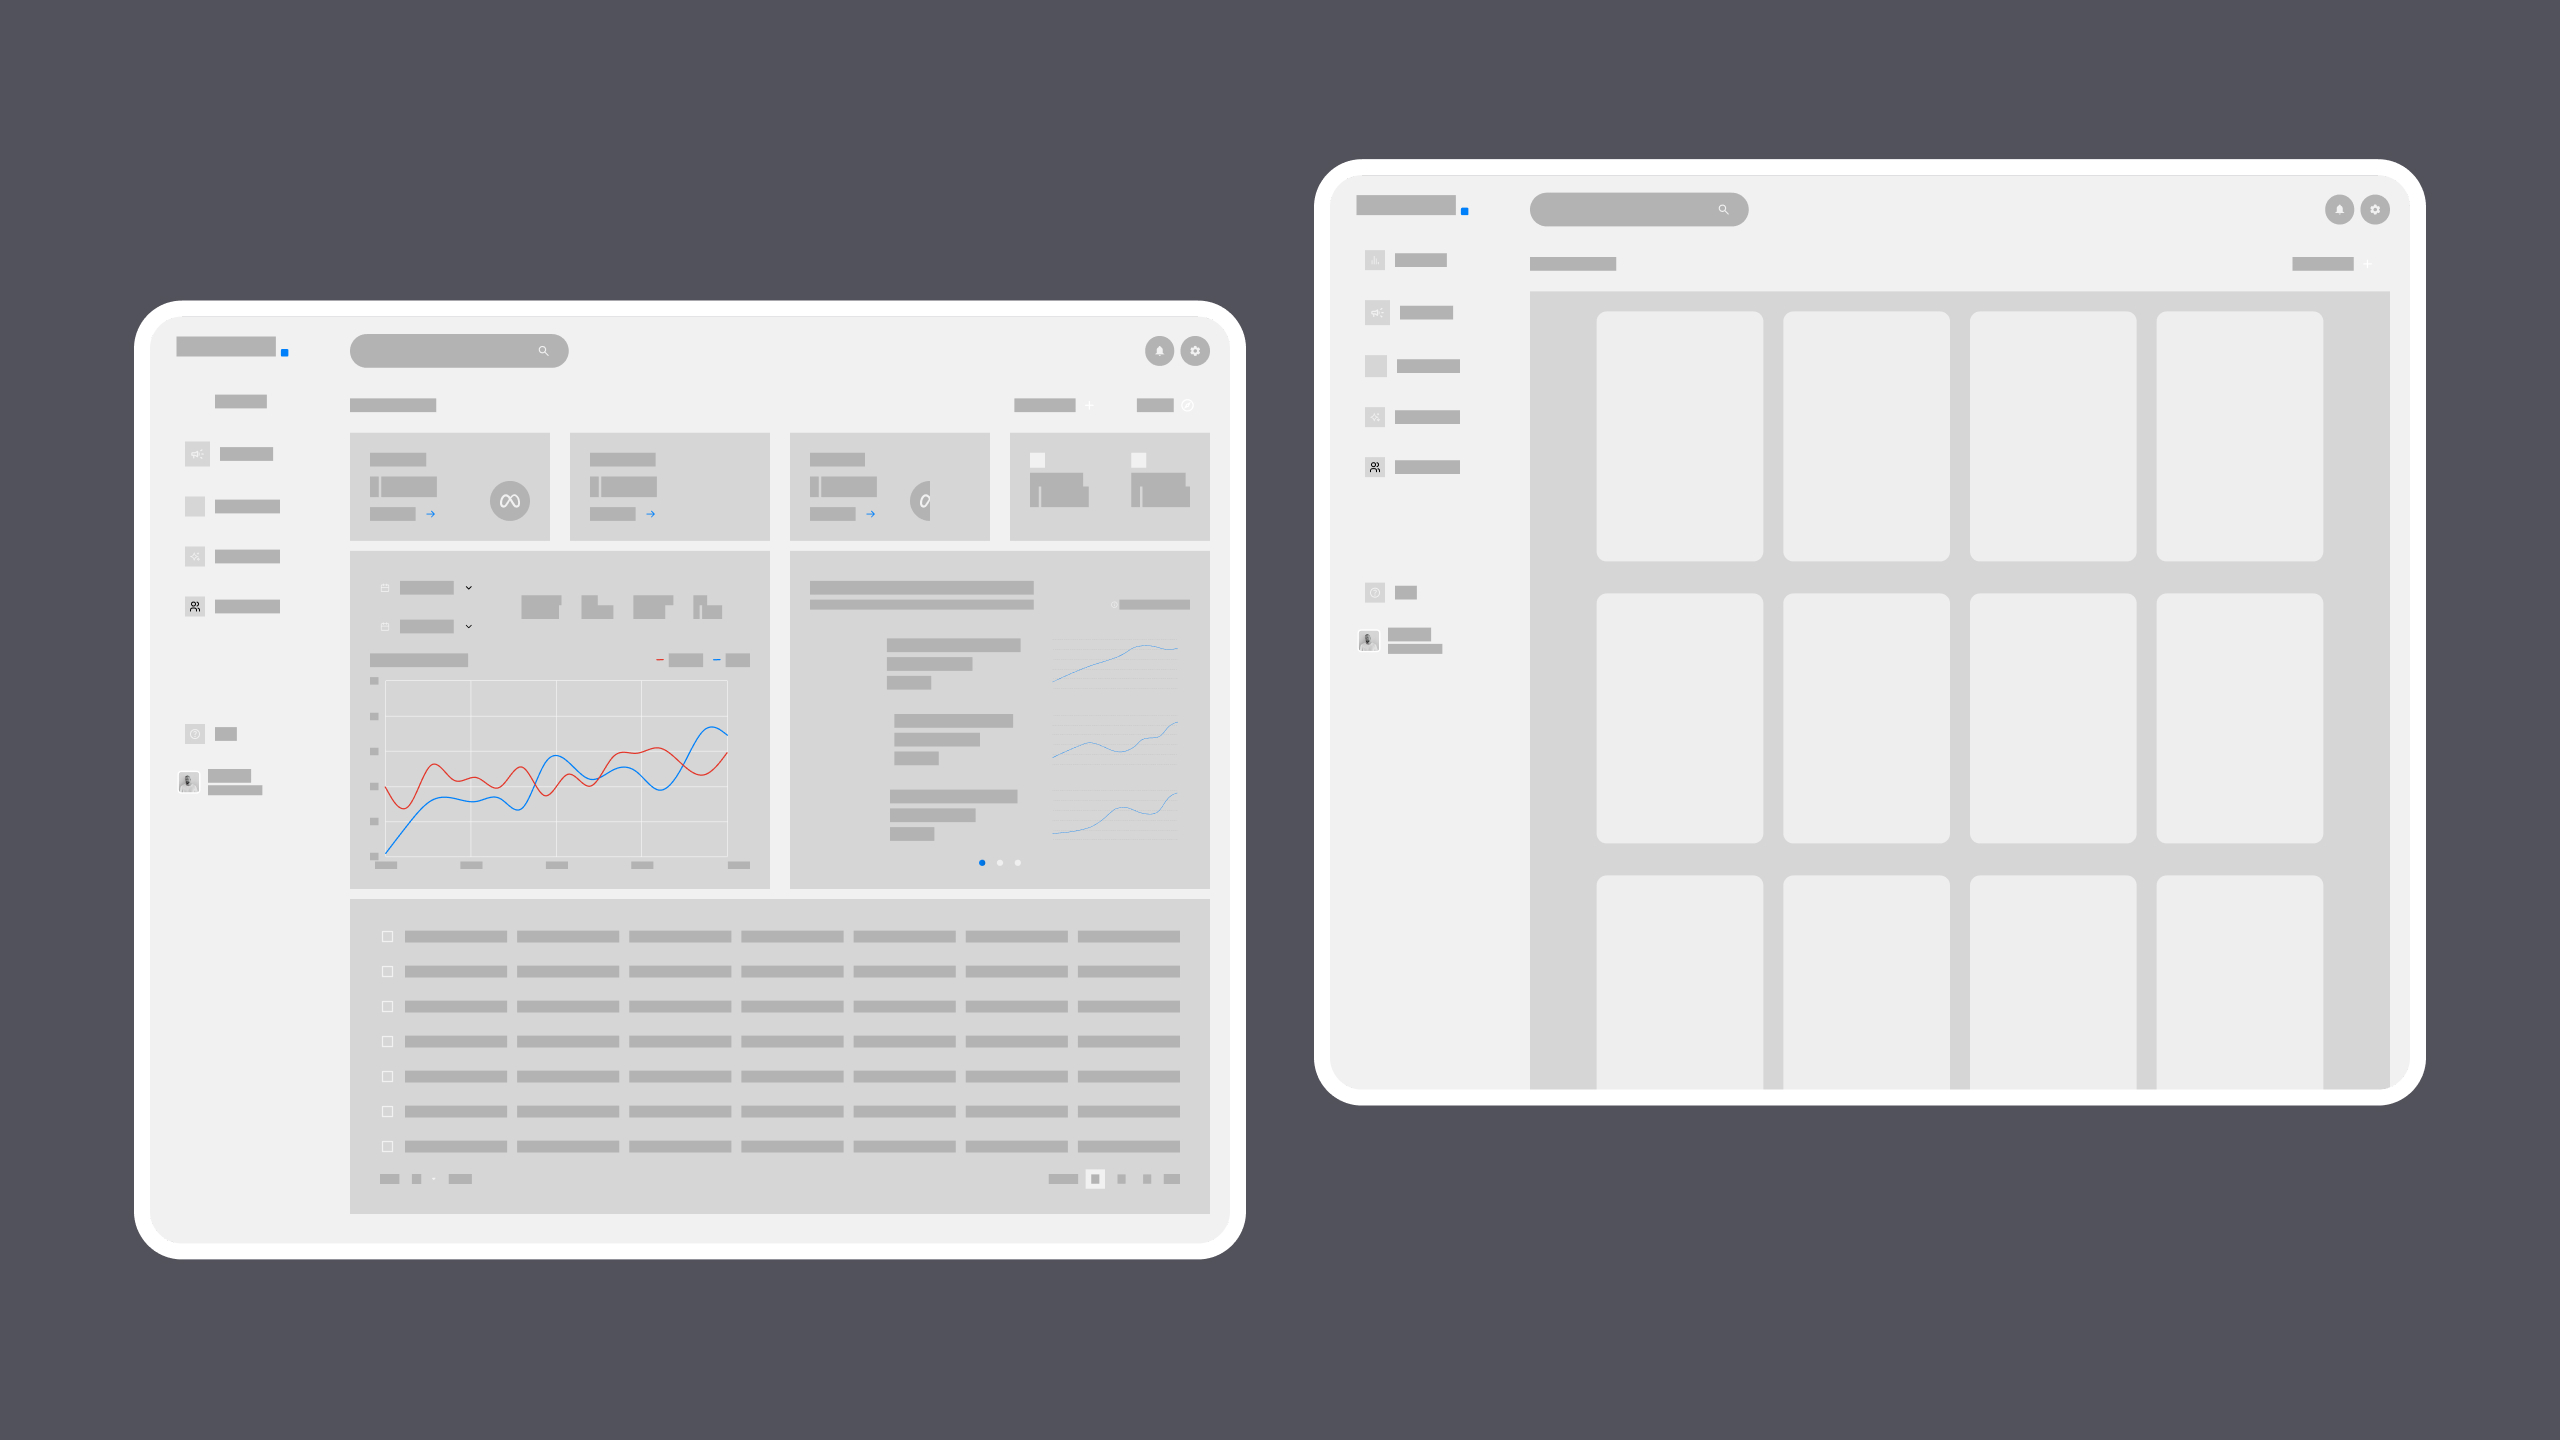
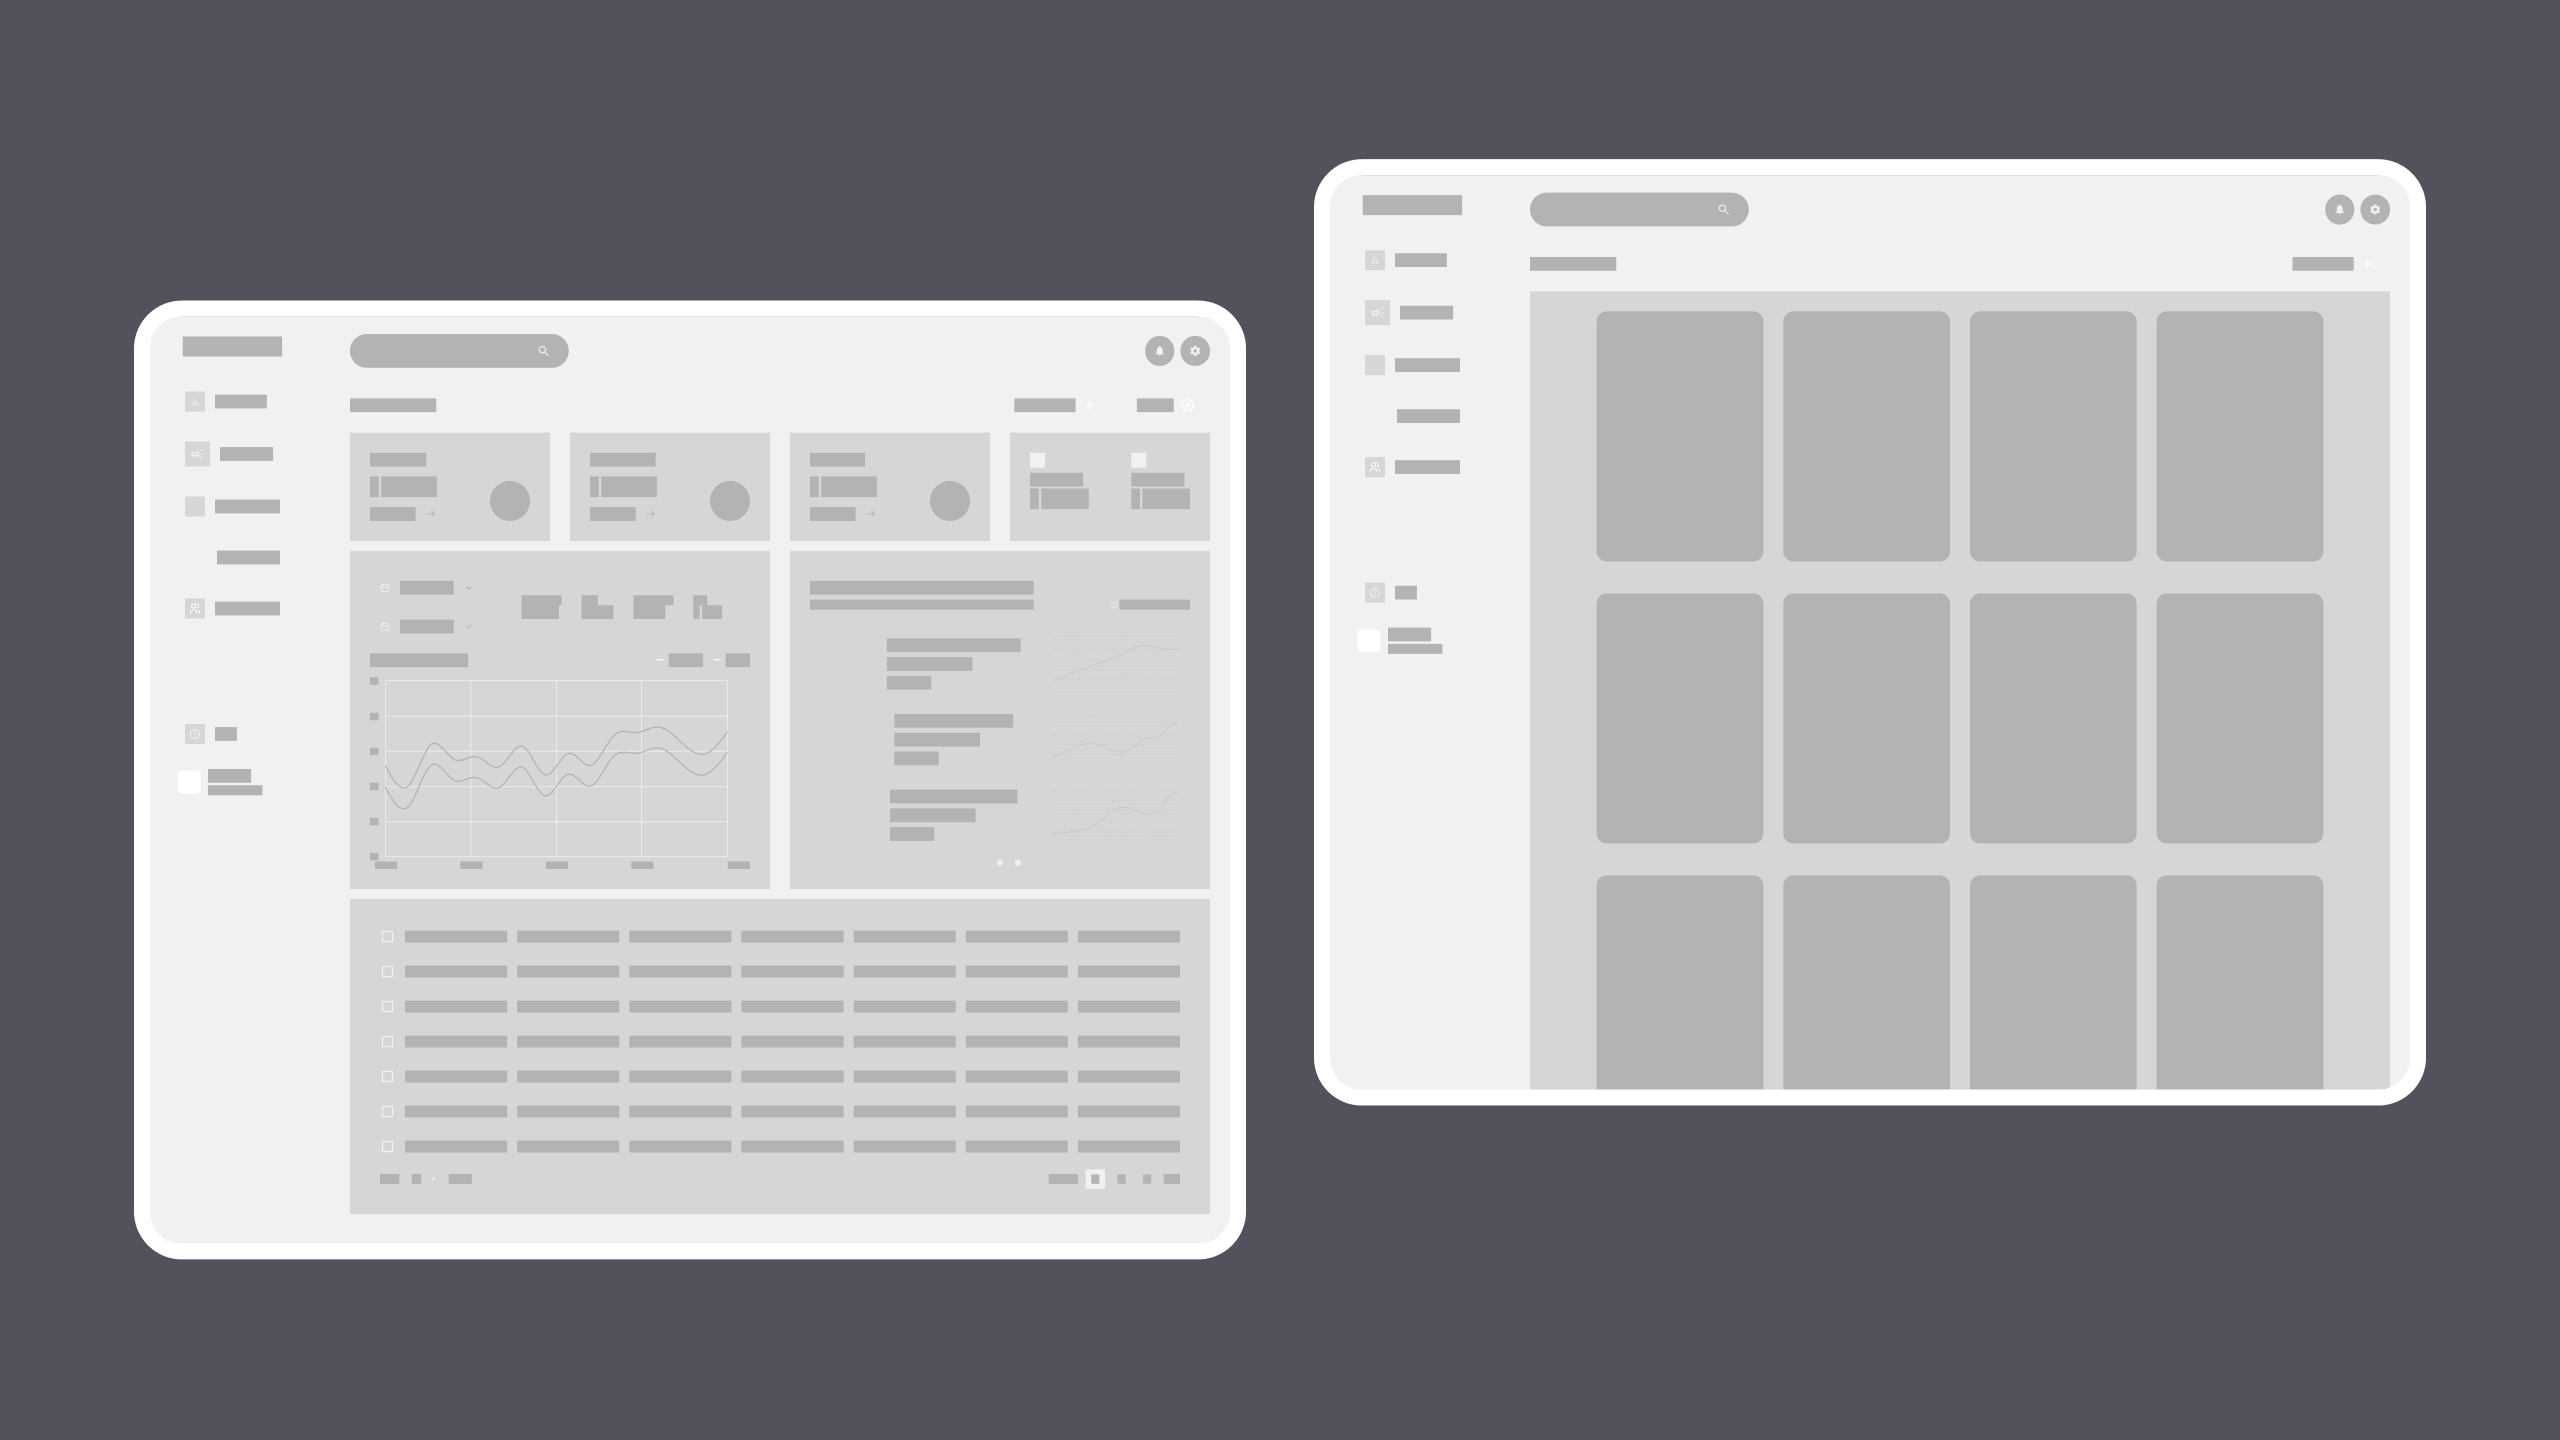
content update

diff --git a/src/components/case-study.tsx b/src/components/case-study.tsx
@@ -2,6 +2,7 @@
 
 import { useLayoutEffect, useRef, useState, useEffect } from "react";
 import Link from "next/link";
+import Image from "next/image";
 import gsap from "gsap";
 import { ScrollTrigger } from "gsap/ScrollTrigger";
 import caseStudies from "@/data/casestudy";
@@ -127,14 +128,16 @@ export default function CaseStudy({ slug }: { slug: string }) {
 
       {/* ── HERO IMAGE ───────────────────────────────────────── */}
       <div className="hero-img-wrap w-full">
-        <div className="relative w-full h-[55vw] max-h-[85vh] min-h-[320px] overflow-hidden">
-          <MagnifiableImage
+        <div className="relative w-full h-[40vw] max-h-[65vh] min-h-[280px] overflow-hidden">
+          <Image
             src={caseStudy.heroImage}
             alt={`${caseStudy.name} Hero`}
             fill
-            preload
+            priority
+            quality={100}
+            unoptimized
             sizes="100vw"
-            className="object-cover scale-[1.04] hover:scale-100 transition-transform duration-[1.4s] ease-in-out"
+            className="object-cover hover:scale-105 transition-transform duration-[1.4s] ease-in-out"
           />
           {/* Subtle bottom gradient */}
           <div className="absolute inset-x-0 bottom-0 h-32 bg-linear-to-t from-[#f8f7f5] dark:from-[#0a0a0a] to-transparent pointer-events-none" />
@@ -362,7 +365,7 @@ export default function CaseStudy({ slug }: { slug: string }) {
                   <p className="text-[9px] font-bold uppercase tracking-widest text-zinc-500 dark:text-zinc-400 mb-6 relative">
                     What I&apos;d do differently
                   </p>
-                  <p className="text-lg md:text-xl font-black tracking-tight leading-snug italic text-white dark:text-zinc-900 relative">
+                  <p className="text-md md:text-lg font-medium tracking-tight leading-snug italic text-white dark:text-zinc-900 relative">
                     &ldquo;{caseStudy.reflection}&rdquo;
                   </p>
                 </div>

diff --git a/src/data/casestudy.js b/src/data/casestudy.js
@@ -6,7 +6,7 @@ const caseStudies = [
     "name": "Invoice",
     "client": "Jadbery",
     "clientLink": "https://jadbery.com/",
-    "year": "2026",
+    "year": "2025",
     "role": "UX Designer & Developer",
     "duration": "3 weeks",
     "timeline": "2025",
@@ -132,7 +132,7 @@ const caseStudies = [
     "hook": "Small businesses and solo marketers spend hours moving between design tools, copywriting tools, and ad platforms to produce a single ad — then do it again for every variation. I designed Flow, an AI-powered ad creation platform that collapses that workflow into a single prompt-to-publish loop, built specifically for people who aren't designers and can't afford to act like they are.",
 
     "context": {
-      "description": "This was a 1-week solo concept project with no engineering constraints — which created a different kind of discipline problem: infinite surface area. The constraint I imposed on myself was a single core loop: every feature had to either accelerate generation or reduce the friction of iteration. Features that didn't serve one of those two goals were cut from scope, regardless of how useful they seemed in isolation.",
+      "description": "This was a 1-week solo concept project centered on a prompt-to-image generation workflow with iterative refinement built into a chat window. Instead of a canvas-based editor, users generate ad visuals through natural-language prompts and alter them conversationally — requesting changes, swapping elements, or adjusting tone without leaving the chat interface. The constraint I imposed was a single core loop: every feature had to either accelerate generation or reduce the friction of iteration. Features that didn't serve one of those two goals were cut from scope, regardless of how useful they seemed in isolation.",
     },
 
     "problemFraming": {
@@ -195,12 +195,12 @@ const caseStudies = [
       "note": "Explicitly naming what I'd measure — rather than claiming metrics from a concept project — is itself a design decision about honesty."
     },
 
-    "reflection": "The decision I'm least confident about is the prompt-first entry point. It's correct for experienced digital marketers but I underestimated how disorienting it is for small business owners who have no mental model of what a good prompt looks like. The Inspiration Engine partially compensates for this, but it's downstream of the problem. I would explore a hybrid entry: a structured brief form (audience, tone, product) that generates a prompt on the user's behalf, letting them edit or use it directly. That would serve Omar without alienating Sara.",
+    "reflection": "The decision I'm least confident about is the prompt-first entry point. It's correct for experienced digital marketers but I underestimated how disorienting it is for small business owners who have no mental model of what a good prompt looks like. The Inspiration Engine partially compensates for this, but it's downstream of the problem. I would explore a hybrid entry: a structured brief form (audience, tone, product) that generates a prompt on the user's behalf, letting them edit or use it directly. That would serve first-time users without alienating power users who prefer writing their own prompts.",
 
     "achievements": [
       {
         "title": "End-to-end solo concept delivered",
-        "description": "Scoped, designed, and documented a full AI product concept — from discovery through UI — in 4 weeks with no external dependencies."
+        "description": "Scoped, designed, and documented a full AI product concept — from discovery through UI — in 1 week with no external dependencies."
       },
       {
         "title": "Core loop validated in user testing",